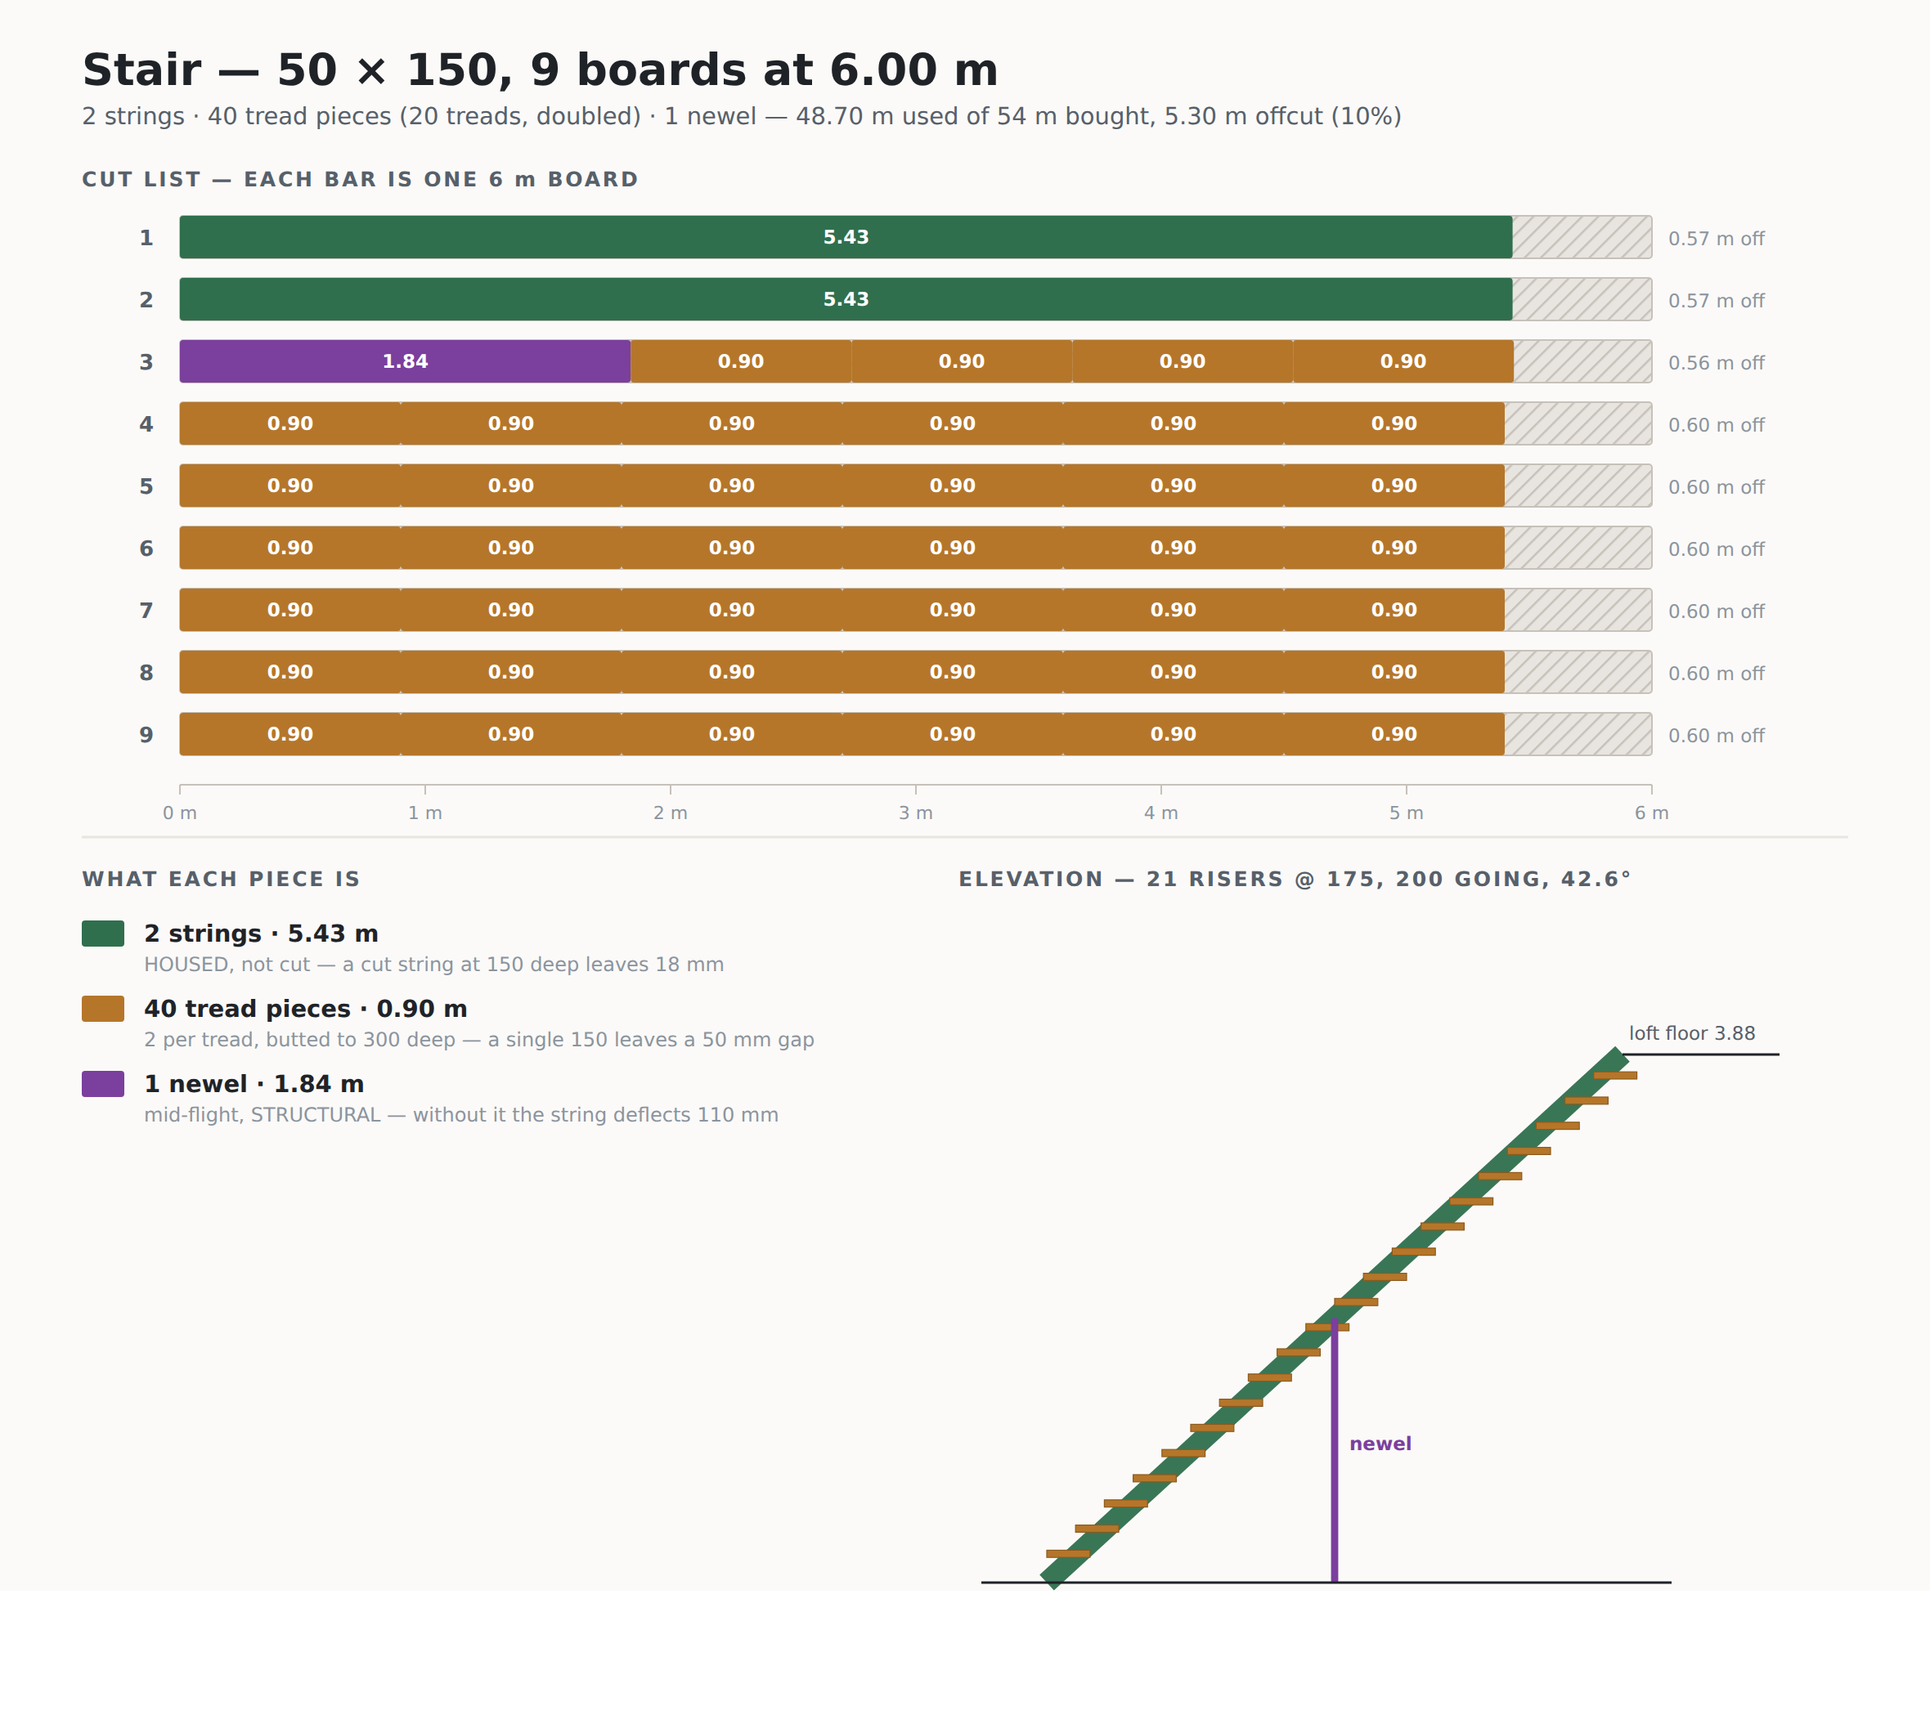
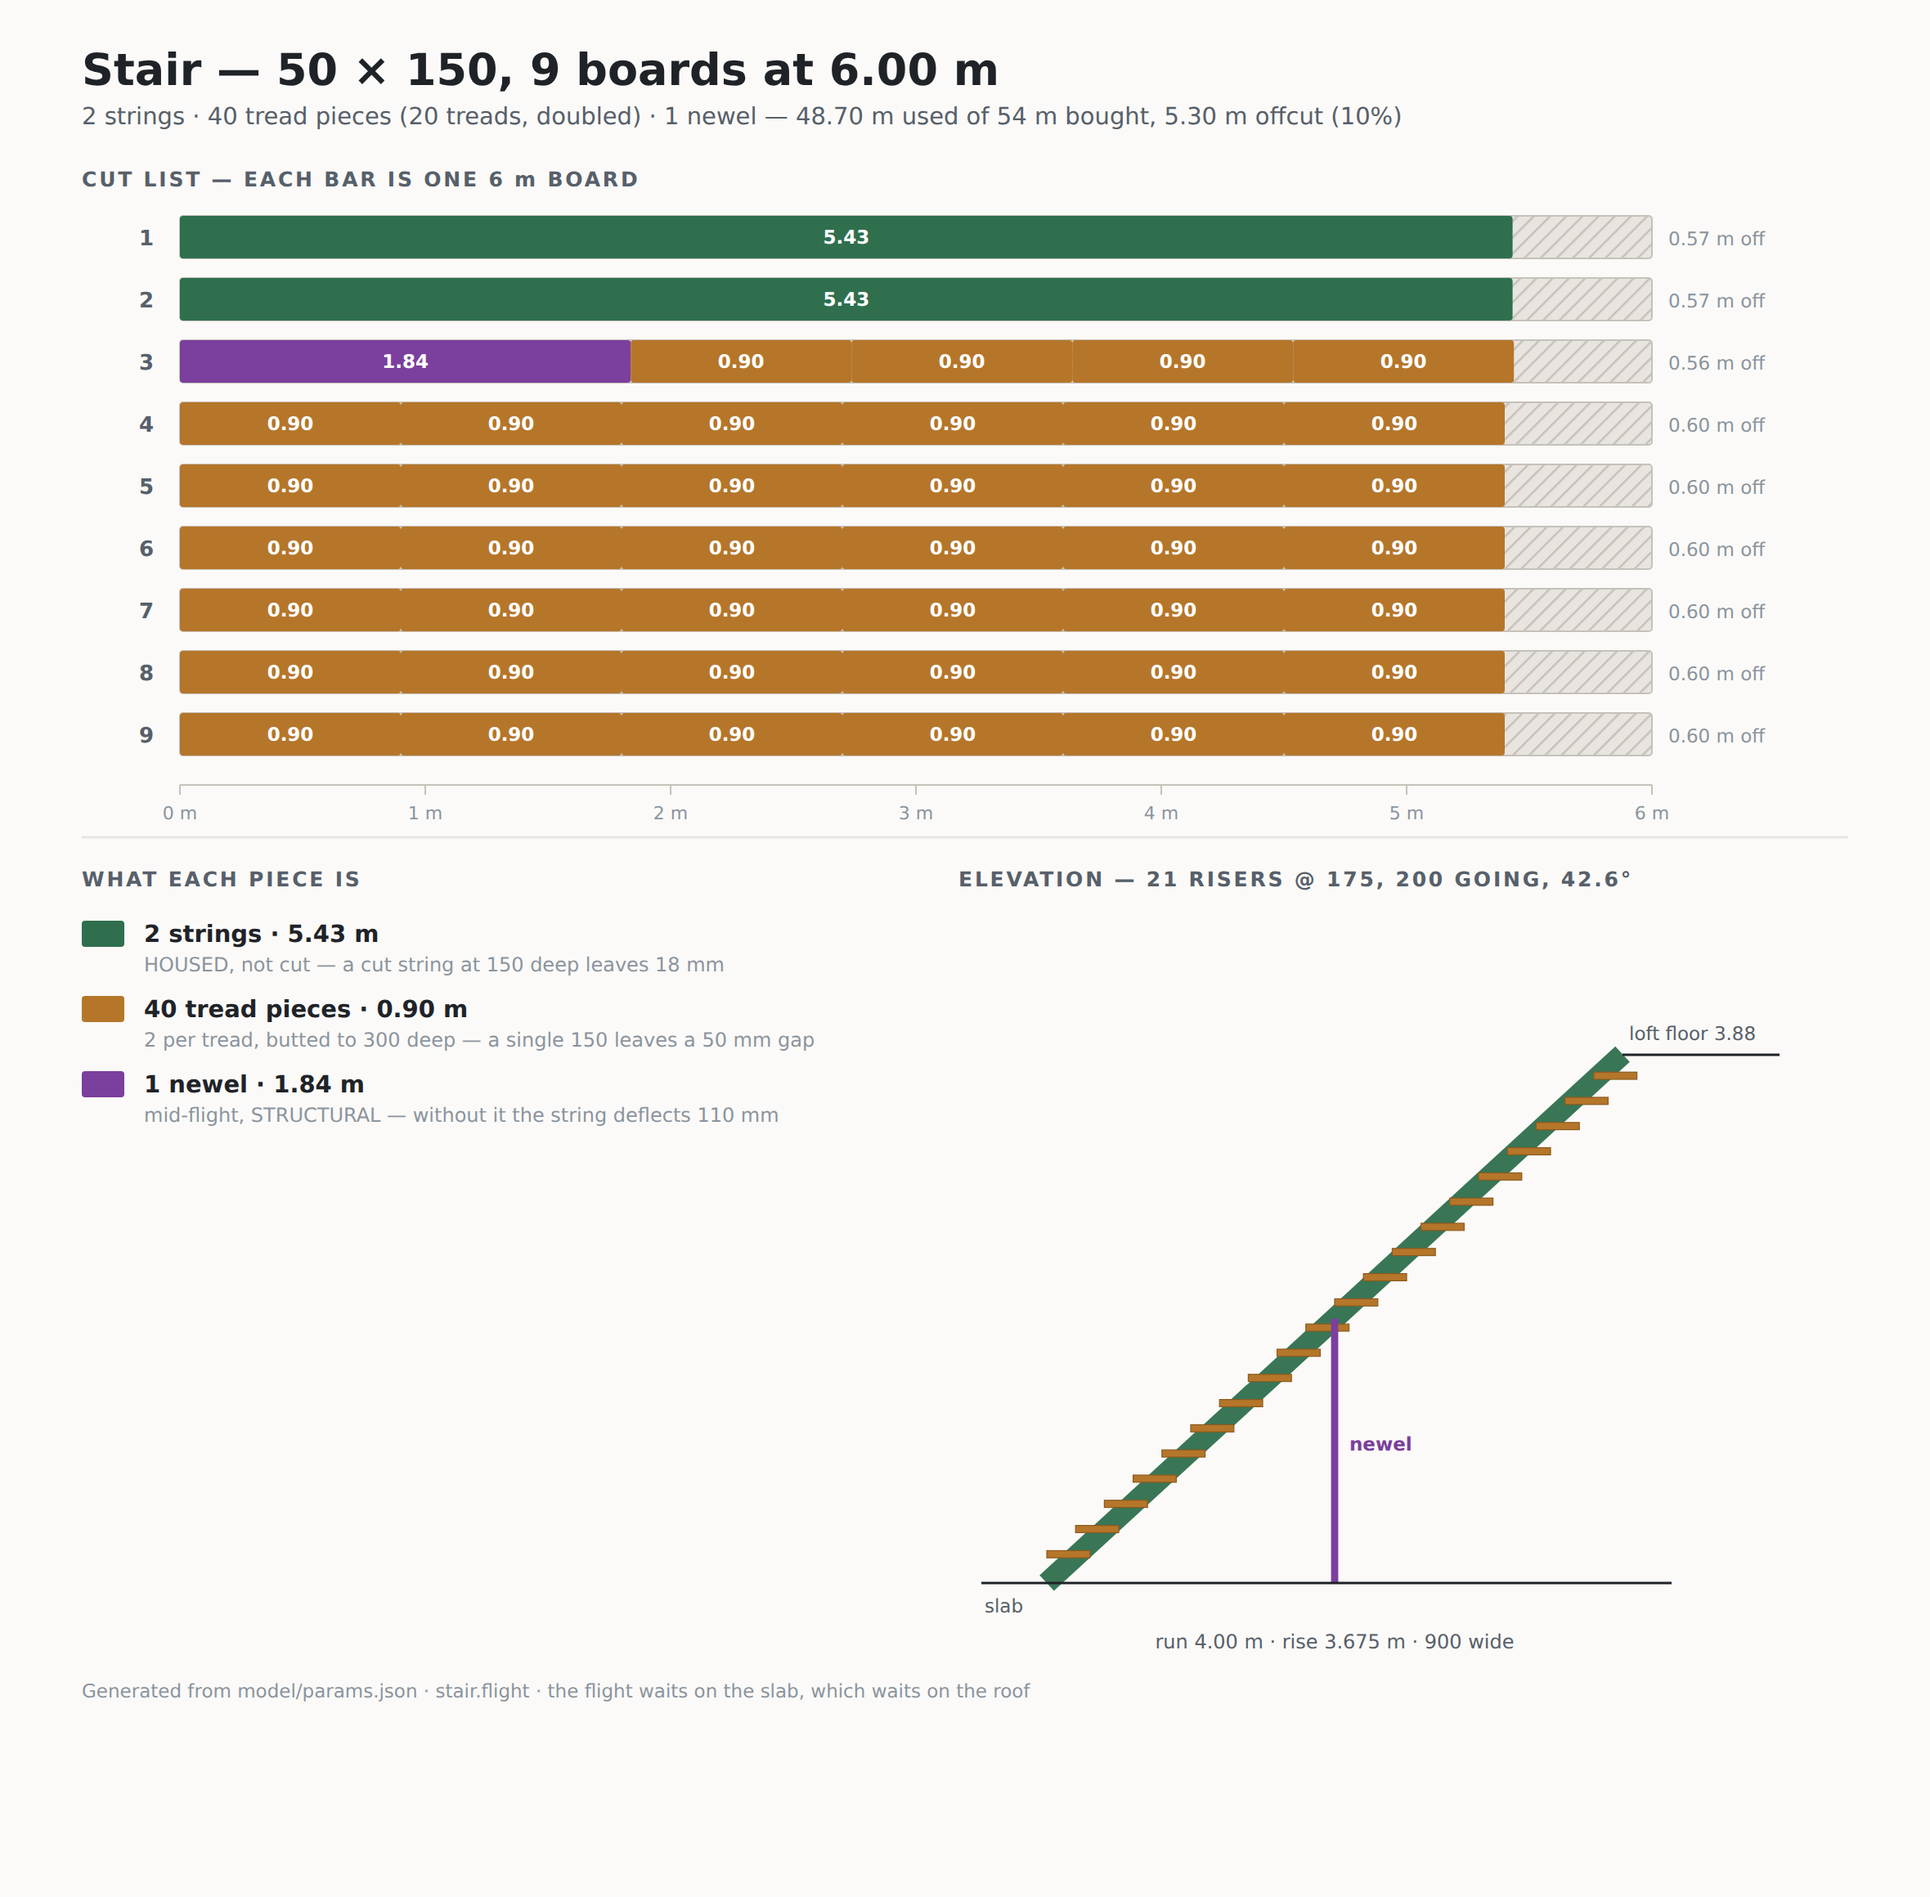
Where all 66 boards of 50 x 150 go, and the fascia quantity was stale
model/timber-50x150.svg + .png: every 50 x 150 in the project, one chip per
board, split by where it comes from.

  IN THE YARD, already ripped from 50 x 250 - 42 boards
    36 rafters, 2 gable panel diagonals, 4 spare
  BOUGHT on the 2026-08-21 order - 24 boards, EUR 334.80
    9 stair, 8 eaves fascia, 4 levelling (installed), 3 spare

The two do not mix: ripped boards can be a rafter but never a purlin or a
ridge, which need the full 250 depth.

FASCIA WAS 7 BOARDS, IS 8. The note still read 2 runs x 10.30 m; the fascia
follows roof.ridgeLength and the verge went back to 1.0 m each end, so it is
2 x 11.30 x 2 pieces = 45.2 m. stock.js already had 8 - only the note
lagged. Position recorded while I was there: y +-3.554, which is 529 mm out
past the wall face, bottom 2.862 and top 3.162 - on the rafter tail, below
the plate top, not on the wall.

Render wrapper also fixed - the screenshots were clipping the last 90 px.

Claude-Session: https://claude.ai/code/session_01U76GUKm1hGA1oKrhuUDf4f

diff --git a/model/src/viewer.js b/model/src/viewer.js
@@ -1,12 +1,12 @@
 import * as THREE from 'three';
 import { OrbitControls } from 'three/addons/controls/OrbitControls.js';
-import { buildFrame } from './frame.js?v=1787667808';
-import { derive } from './geometry.js?v=1787667808';
-import { buildDims } from './dims.js?v=1787667808';
-import { buildFasteners, schedule } from './fasteners.js?v=1787667808';
-import { LAYER_GROUPS, inOrder } from './layers.js?v=1787667808';
-import { buildFloorNotes } from './floornotes.js?v=1787667808';
-import { buildMarks } from './marks.js?v=1787667808';
+import { buildFrame } from './frame.js?v=1787743777';
+import { derive } from './geometry.js?v=1787743777';
+import { buildDims } from './dims.js?v=1787743777';
+import { buildFasteners, schedule } from './fasteners.js?v=1787743777';
+import { LAYER_GROUPS, inOrder } from './layers.js?v=1787743777';
+import { buildFloorNotes } from './floornotes.js?v=1787743777';
+import { buildMarks } from './marks.js?v=1787743777';
 
 const params = await (await fetch('./params.json')).json();
 const findings = await (await fetch('./findings.json')).json();

diff --git a/model/src/frame.js b/model/src/frame.js
@@ -2,8 +2,8 @@
 // userData.layer so the viewer can toggle it without knowing what's inside.
 
 import * as THREE from 'three';
-import { allocator } from './stock.js?v=1787667808';
-import { derive, stations, spaced } from './geometry.js?v=1787667808';
+import { allocator } from './stock.js?v=1787743777';
+import { derive, stations, spaced } from './geometry.js?v=1787743777';
 
 const MAT = {
   hewn:     new THREE.MeshStandardMaterial({ color: 0x8a6a45, roughness: 0.9 }),

diff --git a/model/src/fasteners.js b/model/src/fasteners.js
@@ -6,7 +6,7 @@
 // decides length — 6 x 100 is not always enough.
 
 import * as THREE from 'three';
-import { derive } from './geometry.js?v=1787667808';
+import { derive } from './geometry.js?v=1787743777';
 // Connections are labelled with the LAYER NAMES they join, not reference
 // letters. The letters were a 30-row lookup table you had to learn; the layer
 // name is already in the panel on the left, so "ties -> plates" points at two

diff --git a/model/src/marks.js b/model/src/marks.js
@@ -14,7 +14,7 @@
 //   A  gable panel posts hold-downs, the tightest margin in the building
 
 import * as THREE from 'three';
-import { derive } from './geometry.js?v=1787667808';
+import { derive } from './geometry.js?v=1787743777';
 
 export const MARK_KEY = [
   ['F', 'plate piece — splices, wind-girder chord'],

diff --git a/model/src/dims.js b/model/src/dims.js
@@ -2,7 +2,7 @@
 // stays about timber and this stays about labelling it.
 
 import * as THREE from 'three';
-import { derive } from './geometry.js?v=1787667808';
+import { derive } from './geometry.js?v=1787743777';
 
 const LINE = new THREE.LineBasicMaterial({ color: 0x1f2328 });
 

diff --git a/model/index.html b/model/index.html
@@ -105,4 +105,4 @@
     "three/addons/": "https://unpkg.com/three@0.169.0/examples/jsm/"
 } }
 </script>
-<script type="module" src="./src/viewer.js?v=1787667808"></script>
+<script type="module" src="./src/viewer.js?v=1787743777"></script>
